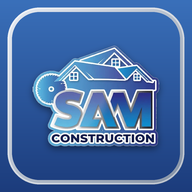
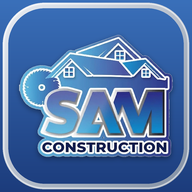
Add files via upload

diff --git a/index.html b/index.html
@@ -9,8 +9,8 @@
 <meta name="apple-mobile-web-app-status-bar-style" content="default">
 <link rel="manifest" href="manifest.json">
 <link rel="icon" type="image/png" sizes="192x192" href="icon-192.png">
-<link rel="apple-touch-icon" href="apple-touch-icon2.png">
-<link rel="icon" type="image/png" href="icon2-192.png">
+<link rel="apple-touch-icon" href="apple-touch-icon3.png">
+<link rel="icon" type="image/png" href="icon3-192.png">
 <style>
 :root{color-scheme:only light;--bg:#F3F1EC;--card:#fff;--ink:#1D2125;--muted:#6B7078;--line:#E3DFD6;--acc:#2172B1;--ok:#2B8A3E;--half:#E8A100;--red:#D9342B}
 *{box-sizing:border-box;-webkit-tap-highlight-color:transparent}
@@ -666,7 +666,7 @@ function openPinChange(){
 }
 // ---------- Notifications open the right screen ----------
 // Auto-update: when the app comes back on screen, check if a newer version is out and reload into it (never while something is open).
-var BUILD='202611112353',lastUpd=0;
+var BUILD='202611120012',lastUpd=0;
 function checkUpdate(force){if(!force&&Date.now()-lastUpd<120000)return;lastUpd=Date.now();
   fetch('version.json?x='+Date.now(),{cache:'no-store'}).then(function(r){return r.json();}).then(function(v){
     if(!v||!v.v||v.v===BUILD)return;
@@ -1905,7 +1905,7 @@ function listenForeground(){
   if(fgOn||!window.firebase||!firebase.messaging)return;fgOn=true;
   try{firebase.messaging().onMessage(function(p){
     var n=(p&&p.notification)||{},d=(p&&p.data)||{},title=n.title||d.title||'SAM To-Do',body=n.body||d.body||'';
-    getReg().then(function(reg){return reg.showNotification(title,{body:body,icon:'icon2-192.png',badge:'icon-192.png',tag:(p&&p.fcmOptions&&p.fcmOptions.analyticsLabel)||('fg'+Date.now()),renotify:true,data:{url:location.href,go:d.go||''}});})
+    getReg().then(function(reg){return reg.showNotification(title,{body:body,icon:'icon2-192.png',badge:'badge-96.png',tag:(p&&p.fcmOptions&&p.fcmOptions.analyticsLabel)||('fg'+Date.now()),renotify:true,data:{url:location.href,go:d.go||''}});})
       .catch(function(e){logErr('Foreground notification failed: '+String(e&&e.message||e),'');});
     toast('🔔 '+title+(body?' — '+body.split('\n')[0]:''));
     refresh(true);
